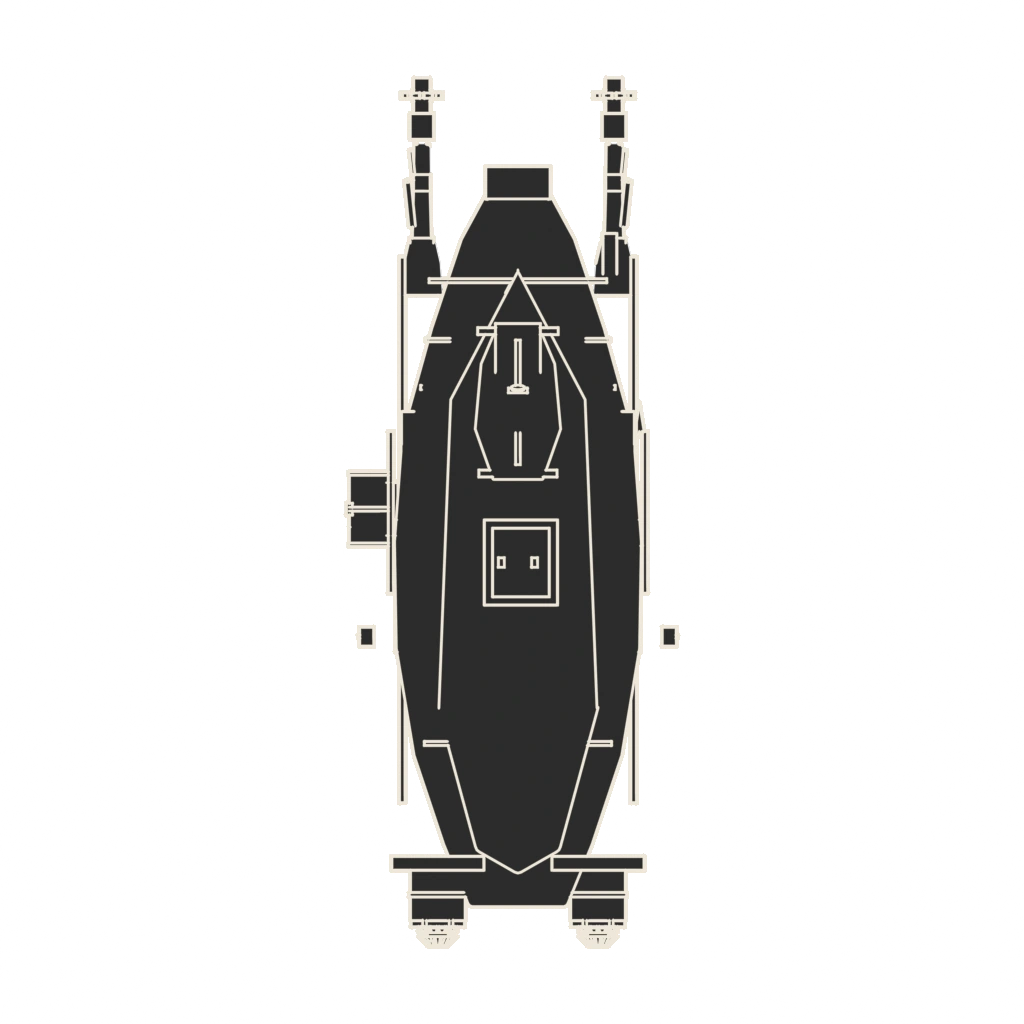
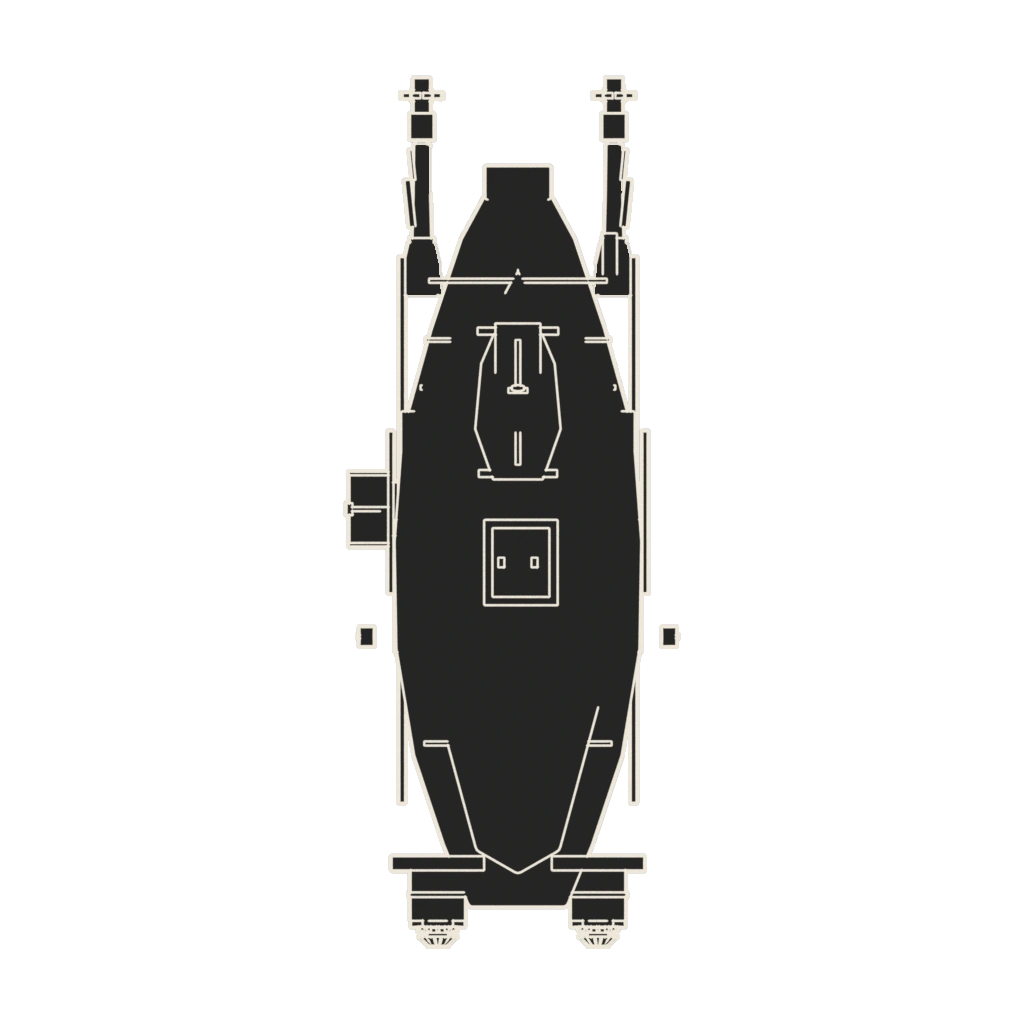
ORRERY refit round 4: clean drawings, a Hand that starts in place, Escape never ends a run
Reviewer pass 3: 7/10 -- decal letters and a ragged wing edge in the drawing, one weight for every
line, nodes melting into the lines, the Hand swinging on arrival, offered spares looking fitted,
Escape bound to a run-ending key, a muddy backdrop.

- render_jig.py leaves paint out (marking, warning, accent, dirt meshes -- by name or by material),
  after the framing so the marks still land; creases 0.8px at 42%, the silhouette 2.2px; jig_glyph.py
  traces the silhouette from the fill so the outline is whole where Freestyle drops an edge.
- Nodes carry a dark knockout ring; shared-socket nodes spread wider; numerals sit further out.
- The Hand is placed at once on any relayout that is not a new choice, and a choice swings it in
  about a quarter second, near-critically damped; a label above or below its rim crossing gets a
  true elbow.
- An offered spare reads as offered: a plus, a quieter weight, a dashed rule.
- Escape resumes the run (launch the next block, back to the armory) and never ends one: on the
  last wave it is refused and the key shows no Esc cap.
- The stage darkens out from the dial, so the arena reads as distance.

diff --git a/src/ui/orrery/hullSchematic.js b/src/ui/orrery/hullSchematic.js
@@ -15,14 +15,13 @@ import { svg, polar, arcD, ticksD, circularText } from './svg.js';
 import { createSpring } from './motion.js';
 import { injectOrrery } from './tokens.js';
 import { hullPosterUrl } from '../hullPosters.js';
-import { loadHullPosterManifest, markForSlot } from '../ship/hullPoster.js';
+import { loadHullPosterManifest, markForSlot, SLOT_MARKS } from '../ship/hullPoster.js';
 import { separateBeads } from '../ship/calloutLayout.js';
 
 const STYLE_ID = 'orr-hull-schematic-style';
 
 const CSS = `
-.orr-hull__pool { position:absolute; pointer-events:none; border-radius:50%;
-  background:radial-gradient(closest-side, rgb(4 6 9 / .84), rgb(4 6 9 / .66) 55%, rgb(4 6 9 / 0)); }
+.orr-hull__pool { position:absolute; left:0; top:0; width:100%; height:100%; pointer-events:none; }
 .orr-hull__art { position:absolute; pointer-events:none; user-select:none; opacity:0;
   transition:opacity .6s var(--dp-ease-out, ease-out); }
 .orr-hull__art.is-ready { opacity:1; }
@@ -44,7 +43,7 @@ html.sf-reduce-motion .orr-hull--settled .orr-hull__label { transition:none; }
 .orr-svg .orr-hull__leader-bloom { opacity:0; transition:opacity .18s linear; }
 .orr-svg .orr-hull__leader-bloom.is-lit { opacity:.22; }
 .orr-hull__node { transform-box:fill-box; transform-origin:center; transition:transform .28s var(--dp-ease-over, ease-out); }
-.orr-hull__node .orr-hull__well { fill:rgb(4 6 9 / .82); }
+.orr-hull__node .orr-hull__well { fill:rgb(4 6 9 / .88); stroke:rgb(10 9 8 / .96); stroke-width:4; }
 .orr-hull__node .orr-hull__ring { fill:none; stroke:rgb(236 230 216 / .88); stroke-width:1.4; transition:stroke .18s linear; }
 .orr-hull__node .orr-hull__core { fill:rgb(246 241 230); transition:fill .18s linear; }
 .orr-hull__node .orr-hull__glow { fill:none; stroke:var(--dp-hand, #f2b950); stroke-width:8; opacity:0; transition:opacity .18s linear; }
@@ -176,6 +175,7 @@ export function createHullSchematic({ host, avoid = () => [], onPick = null, lab
   let leaderEls = [];
   let segEls = [];
   let hand = null;
+  let litChangedAt = -1e9;
 
   const schedule = () => {
     if (frame) return;
@@ -191,7 +191,9 @@ export function createHullSchematic({ host, avoid = () => [], onPick = null, lab
   if (ro) ro.observe(host);
   if (doc.fonts && doc.fonts.ready && typeof doc.fonts.ready.then === 'function') doc.fonts.ready.then(() => schedule());
 
-  const spring = createSpring({ value: 0, preset: { k: 105, c: 13 }, onUpdate: (deg) => paintHand(deg) });
+  // near-critically damped: the Hand crosses the rim in about a quarter of a second and stops
+  const spring = createSpring({ value: 0, preset: { k: 240, c: 29 }, onUpdate: (deg) => paintHand(deg) });
+  const now = () => (typeof performance !== 'undefined' && performance.now ? performance.now() : Date.now());
 
   /** The plan view's entry (its size and marks); the drawing shares its frame exactly. */
   function entry() {
@@ -309,13 +311,19 @@ export function createHullSchematic({ host, avoid = () => [], onPick = null, lab
     scan.style.webkitMaskImage = `url("${artUrl}")`;
     scan.style.maskImage = `url("${artUrl}")`;
     scan.hidden = false;
-    const reach = R + gap + labelWidth + 90;
-    Object.assign(pool.style, { left: `${Math.round(hx - reach)}px`, top: `${Math.round(hy - R - 170)}px`, width: `${Math.round(reach * 2)}px`, height: `${Math.round(2 * R + 340)}px` });
+    const reach = R + gap + labelWidth + 60;
+    pool.style.background = `radial-gradient(circle at ${Math.round(hx)}px ${Math.round(hy)}px, rgb(4 6 9 / .66) 0, rgb(4 6 9 / .74) ${Math.round(reach)}px, rgb(4 6 9 / .86) 100%)`;
 
     // the beads on the render's own sockets; several of one type spread along their mark
     const totals = {};
     const ordinals = nodes.map((n) => { totals[n.slotType] = (totals[n.slotType] || 0) + 1; return totals[n.slotType] - 1; });
     const uvs = nodes.map((n, i) => markForSlot(info.marks, n.slotType, ordinals[i], totals[n.slotType]) || [0.5, 0.5]);
+    for (const type of Object.keys(totals)) {
+      if (totals[type] < 2 || (SLOT_MARKS[type] || []).length > 1) continue;
+      const members = nodes.map((n, i) => i).filter((i) => nodes[i].slotType === type);
+      const base = members.reduce((s, i) => s + uvs[i][0], 0) / members.length;
+      members.forEach((i, k) => { uvs[i] = [base + (k - (members.length - 1) / 2) * 0.062, uvs[i][1]]; });
+    }
     let points = uvs.map(([u, v]) => ({ x: imgRect.left + u * imgW, y: imgRect.top + v * imgH }));
     points = separateBeads(points, 22);
 
@@ -383,7 +391,9 @@ export function createHullSchematic({ host, avoid = () => [], onPick = null, lab
       geo.angles[i] = bearing(hx, hy, ex, ey);
       // inside the ring the line runs behind the drawing; outside it runs flat to its label
       const inner = `M ${p.x.toFixed(1)} ${p.y.toFixed(1)} L ${ex.toFixed(1)} ${ey.toFixed(1)}`;
-      const outer = `M ${ex.toFixed(1)} ${ey.toFixed(1)} L ${colEdge.toFixed(1)} ${cy.toFixed(1)}`;
+      const outer = Math.abs(cy - ey) < 4
+        ? `M ${ex.toFixed(1)} ${ey.toFixed(1)} L ${colEdge.toFixed(1)} ${cy.toFixed(1)}`
+        : `M ${ex.toFixed(1)} ${ey.toFixed(1)} L ${(ex + side * 10).toFixed(1)} ${ey.toFixed(1)} L ${(colEdge - side * 22).toFixed(1)} ${cy.toFixed(1)} L ${colEdge.toFixed(1)} ${cy.toFixed(1)}`;
       const stop = `M ${colEdge.toFixed(1)} ${(cy - 5).toFixed(1)} L ${colEdge.toFixed(1)} ${(cy + 5).toFixed(1)}`;
       const lineUnder = svg('path', { d: inner, class: 'orr-core orr-hi orr-hull__leader orr-hull__leader--under', 'stroke-width': 1, opacity: '.42' });
       const bloom = svg('path', { d: outer, class: 'orr-bloom orr-hand orr-hull__leader-bloom', 'stroke-width': 5, opacity: '0' });
@@ -444,7 +454,7 @@ export function createHullSchematic({ host, avoid = () => [], onPick = null, lab
       const len = Math.hypot(ex - p.x, ey - p.y) || 1;
       const dx = (ex - p.x) / len; const dy = (ey - p.y) / len;
       const num = svg('text', {
-        x: (p.x + dx * 19).toFixed(1), y: (p.y + dy * 19 + 4).toFixed(1),
+        x: (p.x + dx * 24).toFixed(1), y: (p.y + dy * 24 + 4).toFixed(1),
         class: 'orr-hull__num', 'text-anchor': dx < -0.35 ? 'end' : dx > 0.35 ? 'start' : 'middle',
       });
       num.textContent = nodes[i].num || String(i + 1).padStart(2, '0');
@@ -467,7 +477,7 @@ export function createHullSchematic({ host, avoid = () => [], onPick = null, lab
     arrived = true;
     if (litIndex < 0 || litIndex >= nodes.length) litIndex = 0;
     markLabels();
-    paintLit(first);
+    paintLit(first || now() - litChangedAt > 450);
     paintHand(spring.value);
     laidOut = typeof performance !== 'undefined' && performance.now ? performance.now() : Date.now();
     // after the first placement, labels glide when a lit label unfolds and its column re-spaces
@@ -501,6 +511,7 @@ export function createHullSchematic({ host, avoid = () => [], onPick = null, lab
     light(index) {
       if (!Number.isInteger(index) || index === litIndex) return;
       litIndex = index;
+      litChangedAt = now();
       markLabels();
       paintLit(false);
       // a lit label can change height (it unfolds its choices): its column re-spaces

diff --git a/src/ui/orrery/screenLayouts.js b/src/ui/orrery/screenLayouts.js
@@ -292,7 +292,12 @@ html body #screens > .k-screen.orr-refit > .sf-cru-stage.orr-hull--on .sf-cru-ac
 html body #screens > .k-screen.orr-refit > .sf-cru-stage.orr-hull--on .orr-hp__line { gap:6px 12px !important; }
 html body #screens > .k-screen.orr-refit > .sf-cru-stage.orr-hull--on .orr-hp__empty { font-family:var(--dp-face-label, "Archivo"); font-stretch:112%; font-weight:650; font-size:11.5px; letter-spacing:.22em;
   text-transform:uppercase; color:rgb(236 230 216 / .7); }
-html body #screens > .k-screen.orr-refit > .sf-cru-stage.orr-hull--on .is-open .orr-hp__spare-name { font-variation-settings:"wght" 620, "wdth" 112; }
+html body #screens > .k-screen.orr-refit > .sf-cru-stage.orr-hull--on .is-open .orr-hp__spare-name { font-variation-settings:"wght" 560, "wdth" 112; }
+/* an offered spare is not fitted: a plus, a quieter weight, a dashed rule under the chosen one */
+html body #screens > .k-screen.orr-refit > .sf-cru-stage.orr-hull--on .is-open .orr-hp__spare { color:rgb(236 230 216 / .62); }
+html body #screens > .k-screen.orr-refit > .sf-cru-stage.orr-hull--on .is-open .orr-hp__spare-name::before { content:"+"; margin-right:6px; font-weight:500; color:rgb(236 230 216 / .6); }
+html body #screens > .k-screen.orr-refit > .sf-cru-stage.orr-hull--on .is-open .orr-hp__spare[aria-checked="true"] { color:rgb(236 230 216 / .9); }
+html body #screens > .k-screen.orr-refit > .sf-cru-stage.orr-hull--on .is-open .orr-hp__spare::after { height:1px; background:repeating-linear-gradient(90deg, rgb(236 230 216 / .75) 0 4px, transparent 4px 7px); }
 /* one hardpoint unfolds at a time: the lit one shows every spare and the scales; the rest show their pick */
 html body #screens > .k-screen.orr-refit > .sf-cru-stage.orr-hull--on .is-open:not(.is-lit) .orr-hp__spare:not([aria-checked="true"]) { display:none; }
 html body #screens > .k-screen.orr-refit > .sf-cru-stage.orr-hull--on .sf-cru-row:not(.is-lit) :is(.orr-hp__scales, .orr-hp__contrast) { display:none; }
@@ -325,6 +330,16 @@ html body #screens > .k-screen.orr-refit > .sf-cru-stage.orr-hull--on .sf-cru-ro
 html body #screens > .k-screen.orr-refit > .sf-cru-stage.orr-hull--on .sf-cru-row.is-lit .sf-cru-act:not(:disabled) { color:var(--dp-hand, #f2b950) !important; text-shadow:0 0 12px rgb(242 185 80 / .35); }
 html body #screens > .k-screen.orr-refit > .sf-cru-stage.orr-hull--on .sf-cru-act:not(:disabled):is(:hover, :focus-visible) { color:var(--dp-hand-hot, #ffd98c) !important; outline:none !important; }
 html body #screens > .k-screen.orr-refit > .sf-cru-stage.orr-hull--on .sf-cru-row :is(.orr-hp__n, .sf-cru-slottag, .orr-hp__contrast, .sf-cru-act) { text-shadow:0 1px 0 rgb(0 0 0 / .7), 0 0 10px rgb(0 0 0 / .85); }
+
+/* results: the death dial takes the right of the plate; the ledger and the story keep the left two
+   columns; the kill-chain and last-seconds rows it draws stay for the ear only */
+html body #screens > .k-screen.orr-crucible.sf-crucible-results.has-deathdial .sf-crres__stage { grid-template-columns:minmax(260px, 330px) minmax(340px, 470px) minmax(0, 1fr) !important; column-gap:40px; }
+html body #screens > .k-screen.orr-crucible.sf-crucible-results.has-deathdial .sf-crres__dial { order:2; align-self:stretch; min-height:520px; }
+html body #screens > .k-screen.orr-crucible.sf-crucible-results.has-deathdial .sf-crres__band:is([data-band="kill_chain"], [data-band="last_seconds"]) { position:absolute !important; width:1px; height:1px; overflow:hidden;
+  clip:rect(0 0 0 0); white-space:nowrap; margin:0 !important; }
+html body #screens > .k-screen.orr-crucible.sf-crucible-results.has-deathdial .sf-crres__hero { z-index:3; }
+/* the build's steps: the wave, then its verb, never run together */
+html body #screens > .k-screen.orr-crucible.sf-crucible-results .sf-crres__step-verb { margin-left:10px; }
 
 /* new game: the Field Hardware form becomes instruments. Selectors carry #screens so they meet the
    retired kit sheet's own specificity instead of losing to it. */

diff --git a/src/ui/screens/crucibleDraft.js b/src/ui/screens/crucibleDraft.js
@@ -895,6 +895,9 @@ export const crucibleRefitScreen = {
       if (event.defaultPrevented || event.altKey || event.ctrlKey || event.metaKey) return;
       if (event.key === 'Escape') {
         event.preventDefault();
+        // Escape resumes (launch the next block, back to the armory); it never ends a run -- the
+        // last wave's "take the win" is pressed, not escaped into.
+        if (refitFootLines(ctx.state && ctx.state.run).finishes) { cue('deny'); return; }
         done.click();
         return;
       }
@@ -978,7 +981,7 @@ export const crucibleRefitScreen = {
       if (node.textContent !== text) node.textContent = text;
       node.hidden = !text;
     };
-    setKeyLabel(this._done, lines.primary, 'Esc', 'Escape');
+    setKeyLabel(this._done, lines.primary, lines.finishes ? '' : 'Esc', lines.finishes ? '' : 'Escape');
     setNote(this._doneNote, lines.primaryNote);
     if (this._done && this._done.title !== lines.primaryNote) this._done.title = lines.primaryNote;
 

diff --git a/tools/art/render_jig.py b/tools/art/render_jig.py
@@ -20,8 +20,9 @@ bpy.ops.wm.read_factory_settings(use_empty=True)
 sc = bpy.context.scene
 bpy.ops.import_scene.gltf(filepath=glb)
 
+paint = []
 for o in sc.objects:
-    helper = re.search(r'collision|collider|proxy|helper|shadow_?caster|bounds|decal', o.name, re.I)
+    helper = re.search(r'collision|collider|proxy|helper|shadow_?caster|bounds', o.name, re.I)
     for key in ('collision', 'nonRender', 'helper'):
         try:
             if o.get(key): helper = True
@@ -30,6 +31,12 @@ for o in sc.objects:
     if helper and o.type == 'MESH':
         o.hide_render = True
         o.hide_set(True)
+    # markings, accents, dirt and grime are paint on the model, not its form: the drawing leaves them out
+    # (after the framing, which must match render_hull.py's plan view exactly)
+    elif o.type == 'MESH' and (re.search(r'decal|marking|dirt|grime|accent', o.name, re.I)
+                               or (o.data.materials and all(m and re.search(r'marking|warning|accent|dirt|decal', m.name, re.I)
+                                                            for m in o.data.materials))):
+        paint.append(o)
 meshes = [o for o in sc.objects if o.type == 'MESH' and not o.hide_render and o.visible_get()]
 if not meshes:
     raise SystemExit('no meshes in ' + glb)
@@ -43,6 +50,10 @@ for o in meshes:
 center = (mins + maxs) / 2
 size = maxs - mins
 radius = max(size.x, size.y, size.z) / 2
+for o in paint:
+    o.hide_render = True
+    o.hide_set(True)
+meshes = [o for o in meshes if o not in paint]
 
 # one flat fill for everything: the drawing is the lines
 fill = bpy.data.materials.new('jig_fill')
@@ -81,7 +92,7 @@ sc.render.use_freestyle = True
 sc.render.line_thickness_mode = 'ABSOLUTE'
 vl = sc.view_layers[0]
 fs = vl.freestyle_settings
-fs.crease_angle = math.radians(138)
+fs.crease_angle = math.radians(128)
 fs.use_culling = False
 k = S / 1024.0
 
@@ -103,8 +114,8 @@ def lineset(name, edges, thickness, alpha):
 # the default lineset becomes the fine one; the heavy outline is its own
 for ls in list(fs.linesets):
     fs.linesets.remove(ls)
-lineset('fine', {'select_crease', 'select_border'}, 1.0, 0.55)
-lineset('outline', {'select_silhouette', 'select_external_contour'}, 2.2, 1.0)
+lineset('fine', {'select_crease', 'select_border'}, 0.8, 0.42)
+lineset('outline', {'select_silhouette', 'select_external_contour', 'select_contour'}, 2.2, 0.92)
 
 sc.render.filepath = out
 bpy.ops.render.render(write_still=True)

diff --git a/tools/art/jig_glyph.py b/tools/art/jig_glyph.py
@@ -9,20 +9,26 @@
 #   blender -b -P tools/art/render_jig.py -- <glb> <raw.png> 1024
 #   python tools/art/jig_glyph.py <raw.png> assets/ui/renders/hulls/ship_<hull>.jig.webp
 import sys
-from PIL import Image, ImageChops
+from PIL import Image, ImageChops, ImageFilter
 
 src, out = sys.argv[1], sys.argv[2]
 BONE = (238, 231, 216)
-FILL = (11, 11, 12)
+FILL = (8, 8, 9)
 
 im = Image.open(src).convert('RGBA').rotate(90, expand=False, resample=Image.BICUBIC)
 body = im.getchannel('A')
 line = im.convert('L')  # the fill is near-black, so the lines are the light
 k = line.point(lambda v: min(255, int(v * 1.08)))
+# the silhouette traced from the fill itself, so the outline is whole even where Freestyle drops an
+# edge (a single-sided wing, a trailing edge between two meshes)
+mask = body.point(lambda v: 255 if v > 110 else 0)
+rim = ImageChops.subtract(mask.filter(ImageFilter.MaxFilter(3)), mask.filter(ImageFilter.MinFilter(3)))
+rim = rim.filter(ImageFilter.GaussianBlur(0.5)).point(lambda v: min(235, int(v * 1.1)))
+k = ImageChops.lighter(k, rim)
 bone = Image.new('RGB', im.size, BONE)
 dark = Image.new('RGB', im.size, FILL)
 rgb = Image.composite(bone, dark, k)
-alpha = ImageChops.lighter(body.point(lambda v: int(v * 0.95)), k)
+alpha = ImageChops.lighter(body.point(lambda v: int(v * 0.97)), k)
 glyph = Image.merge('RGBA', (*rgb.split(), alpha))
 glyph.save(out, 'WEBP', quality=94, method=6)
 print('ok', out)
